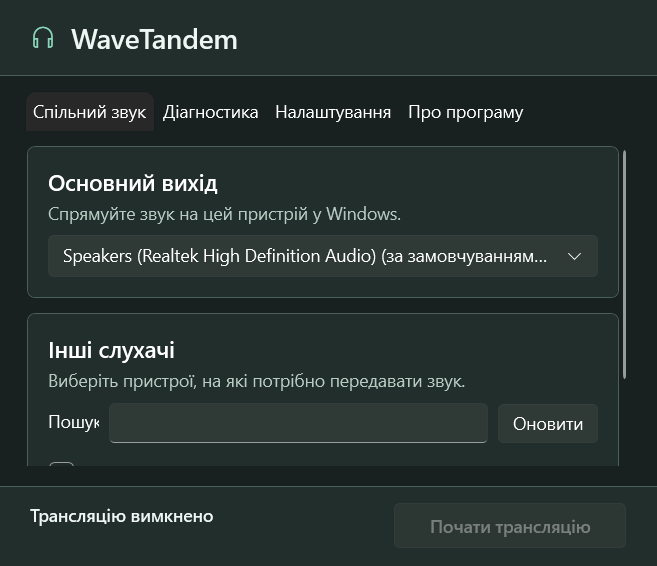
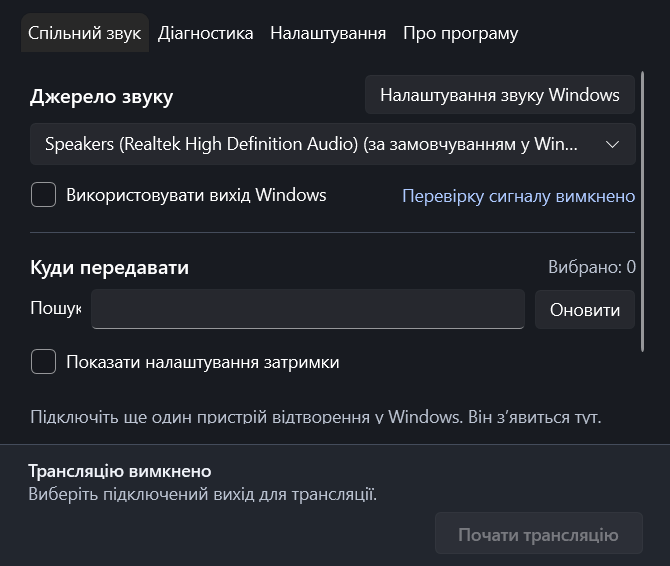
docs: explain listening workflows and refresh screenshots

diff --git a/README.md b/README.md
@@ -1,59 +1,61 @@
 # WaveTandem
 
-WaveTandem shares the sound already playing on a Windows output with other connected headphones, speakers, or audio interfaces. The main device keeps playing normally. Each additional listener gets independent volume, mute, and saved timing settings.
+**Share the sound from one Windows playback device with other headphones or speakers.**
 
-The app is a portable, driver-free Windows desktop program. Development began on 12 November 2026 under the working name SyncEar. The Git history begins on 26 November 2026.
+Use your laptop speakers and a headset together, or listen on a mix of USB, wired, and Bluetooth devices that Windows can play to at the same time. WaveTandem runs locally and uses the playback devices you already have.
 
-![WaveTandem on first launch with one Windows playback device connected](docs/images/sharing-light.png)
+![WaveTandem in the light theme with the source selector, signal status, listener list and sharing controls](docs/images/sharing-light.png)
 
-[Dark theme at a narrower window size](docs/images/sharing-dark-uk.png).
+[Dark theme](docs/images/sharing-dark-uk.png) · [Releases](https://github.com/SerDrozd/WaveTandem/releases) · [Troubleshooting](docs/troubleshooting.md) · [Build from source](#build-and-test)
 
-## Quick start
+## Start listening
 
-1. Connect at least two playback devices in Windows and play audio on one of them.
-2. Extract the entire Windows x64 archive and open `WaveTandem.exe`.
-3. Choose the device that is already playing as the main output.
-4. Select the other listeners and choose **Start sharing**.
-5. Open **Show timing controls** to adjust extra delay on an earlier listener. Use **Diagnostics** to check queue, drift and reconnect information.
+1. Connect two playback devices in **Windows → Settings → System → Sound**. Play something on one of them.
+2. Extract the entire x64 ZIP and open `WaveTandem.exe`. The portable ZIP includes the .NET desktop runtime.
+3. Under **Audio source**, select the device already playing. Enable **Follow Windows default** if you want WaveTandem to follow the Windows playback selection.
+4. Under **Listen on**, check the other devices and press **Start sharing**. You can also press **Ctrl+Enter** while the window has focus.
+5. Check the source signal and try **Test sound** on an enabled listener if you hear nothing there.
 
-Use the x64 ZIP and checksum from [Releases](https://github.com/SerDrozd/SyncEar/releases) when a version is published. Verify the archive with `Get-FileHash .\WaveTandem-win-x64.zip -Algorithm SHA256` and compare it with the adjacent `.sha256` file. The archive includes the .NET desktop runtime. Builds are unsigned.
+**Source** is where Windows already plays the sound. **Listener** is an additional device that receives a copy.
 
-## Features
+## Everyday controls
 
-- One main output and up to 16 additional endpoint profiles per session.
-- Per-listener volume, mute and 0–500 ms extra delay.
-- Recovery for a previously selected endpoint that returns with the same Windows ID.
-- Drift correction through adaptive resampling, with status and software delay estimates.
-- English, Russian and Ukrainian, with Windows, light and dark appearances.
-- Optional sharing from the notification area after closing the window.
+| What you want to do | Where to do it |
+| --- | --- |
+| Find why you hear nothing | Read the source signal status. If the source has signal, use **Test sound** on the connected, unmuted listener to check its playback path. |
+| Pause everyone else while your own sound continues | Use **Pause copies** in the window or tray menu. Resume keeps the listener volume, mute and delay settings. |
+| Swap your main headset as Windows switches devices | Enable **Follow Windows default** before starting. WaveTandem rebuilds the route when Windows changes its default and excludes the new source from the listeners. |
+| Set different levels for two people | Use the volume and mute controls on each checked listener. These change the copies sent by WaveTandem. |
+| Reduce an audible echo between listeners | Open the timing controls. Play a series of clicks and add delay to an additional output that you hear early. |
+| Reuse a setup for a film, desk or set of headphones | In **Saved setups**, save the source choice, listeners, volume, mute and delay while sharing is off. Load the setup, confirm the connected devices, then start sharing. |
+| Share enough information to get help | In **Diagnostics**, use **Copy support report** for stream states, queue metrics and error codes with device names and IDs omitted. |
 
-## How it works
+Selected devices reopen after reconnecting with the same Windows endpoint ID. If Windows assigns a replacement ID, select that endpoint. Choose **Light** or **Dark** in Settings. The interface is available in English, Russian and Ukrainian.
 
-WASAPI loopback reads the selected endpoint's shared-mode playback mix. A C++20 engine converts it to stereo float and publishes frames to bounded queues. Each output drains its own queue at the rate of its audio device. A feedback controller adjusts the resampling ratio to keep the queue near its target. The WPF app uses a versioned native C ABI to configure listeners and display diagnostics. Read the [architecture](docs/architecture.md), [audio pipeline](docs/audio-pipeline.md), and [synchronization design](docs/synchronization.md).
+## Compatibility and timing
 
-## Compatibility
-
-The target is x64 Windows 11, with the same WASAPI APIs available on Windows 10 22H2. USB, wired, Bluetooth Classic and Bluetooth LE Audio devices are usable when Windows exposes active playback endpoints and the PC can sustain their simultaneous playback. Compatibility depends on the adapter, drivers and devices. See the [hardware test matrix](docs/device-compatibility.md) for verification status.
-
-If your Windows Quick Settings includes **Shared Audio** and both headsets support it, Windows can share directly using Bluetooth LE Audio broadcast. [Microsoft Shared Audio documentation](https://support.microsoft.com/en-au/servicing/os/windows-11/2026/05/may-26-2026-kb5089573-os-builds-26200-8524-and-26100-8524-preview).
+- The target is **Windows 11 x64**. The same WASAPI APIs are available on Windows 10 22H2. See the [device matrix](docs/device-compatibility.md) for the verification status.
+- Windows must expose separate playback devices and be able to play to them simultaneously. If your PC already offers **Shared Audio** and two compatible Bluetooth LE Audio accessories, you can use Quick Settings to share directly. [Microsoft Shared Audio](https://techcommunity.microsoft.com/blog/windowsosplatform/share-the-moment-listen-together-with-shared-audio/4522401).
+- WaveTandem reads the shared mix on a selected output. Protected audio and playback that bypasses the shared mix may be absent. [WASAPI loopback](https://learn.microsoft.com/en-us/windows/win32/coreaudio/loopback-recording).
+- Drift correction keeps per-output queues stable. The reported delay estimates **software buffering**. Bluetooth transport and acoustic delay vary by device. The source’s direct Windows playback cannot be delayed by WaveTandem. [Timing and calibration](docs/latency.md).
 
 ## Build and test
 
-Use PowerShell 7, .NET 10 SDK, CMake 3.24 or later, Visual Studio 2022 C++ Build Tools and a Windows 10/11 SDK. For Visual Studio 2026, pass `-Generator 'Visual Studio 18 2026'` with a version of CMake that supports it.
+Use PowerShell 7, .NET 10 SDK, CMake 3.24 or later, the Visual Studio 2022 C++ Build Tools, and a Windows SDK. With Visual Studio 2026 and a CMake version that supports it, pass `-Generator 'Visual Studio 18 2026'`.
 
 ```powershell
 ./scripts/check.ps1
 ./scripts/build.ps1 -Package
 ```
 
-The Release build uses MSVC warnings and static analysis. The script runs the native DSP and endpoint tests and the xUnit settings tests before creating the ZIP in `out/dist`. See [testing](docs/testing.md) for benchmarks, visual checks, hardware verification and long-run measurements.
+The script builds the C++20 engine and WPF application, runs CTest and xUnit, and creates `out/dist/WaveTandem-win-x64.zip` with a SHA-256 sidecar. Archives are unsigned. Run `Get-FileHash .\WaveTandem-win-x64.zip -Algorithm SHA256` to compare the ZIP with its sidecar. See the [verification guide](docs/testing.md) for the UI smoke harness, routing, and hardware tests.
 
-## Settings, timing, and troubleshooting
+## How it works
 
-Preferences live in `%LOCALAPPDATA%\WaveTandem\settings.json`. Profiles use Windows endpoint IDs, so plugging a device into a different port or pairing it again may require selecting its replacement. The app can keep the selected source after the Windows default changes. Route the player to that source, or stop and choose the new default output.
+A WASAPI loopback worker reads the source. Each listener has a bounded queue, its own resampler and its own WASAPI render stream. A feedback controller adjusts each resampling ratio independently. The WPF app talks to the native engine through a versioned C ABI. [Architecture](docs/architecture.md) · [Audio pipeline](docs/audio-pipeline.md) · [Synchronization](docs/synchronization.md).
 
-Software delay is estimated from queued frames. Bluetooth transport and acoustic latency vary by device. Use the [calibration guide](docs/latency.md) to tune devices. If the main device is the earliest audible device, the app cannot delay its direct Windows playback. Protected content and streams that bypass the shared mix may be absent from loopback. See [troubleshooting](docs/troubleshooting.md).
+Audio stays in memory on the PC. Settings are saved under `%LOCALAPPDATA%\WaveTandem`. The application requires no account and sends no audio or telemetry over the network.
 
-## Privacy and project information
+[Contributing](CONTRIBUTING.md) · [Security](SECURITY.md) · [Roadmap](docs/roadmap.md) · [MIT license](LICENSE)
 
-Audio remains in memory on the PC. The app stores settings locally and uses no account, upload or telemetry. The most recent diagnostic events stay in memory during the run. See [security reporting](SECURITY.md), [contributing](CONTRIBUTING.md), the [roadmap](docs/roadmap.md), and the [MIT license](LICENSE).
+Development began on 12 November 2026 under the name SyncEar. The Git history begins on 26 November 2026.

diff --git a/docs/architecture.md b/docs/architecture.md
@@ -15,10 +15,10 @@ flowchart LR
 ```
 
 - **Native** owns COM, capture and render threads, DSP, queue counters, endpoint IDs and lifecycle states. Each audio worker initializes COM and enrolls in MMCSS where available. An event wakes workers for audio. Timeout checks detect stale streams and allow idle loopback.
-- **Interop** verifies ABI version 1 before starting a session. A `SafeHandle` owns the opaque session and joins all workers on release. HRESULT values transfer errors across the boundary. The enumeration callback copies Unicode strings before returning.
+- **Interop** verifies ABI version 2 before starting a session. A `SafeHandle` owns the opaque session and joins all workers on release. HRESULT values transfer errors across the boundary. The enumeration callback copies Unicode strings before returning.
 - **Core** defines endpoint and status records and pure settings normalization. Settings use versioned JSON with a bounded read. Save flushes a uniquely named temporary file in the same directory and replaces the old file. Invalid or future-schema files are preserved.
 - **App** owns the observable device list, language, themes, onboarding and tray. Native operations are serialized off the dispatcher. A two-second enumeration poll updates active and default endpoints. Audio recovery is independent of the UI poll.
 
 A session is pinned to an explicit source ID. Its output slots are append-only until stop. Once a slot is published, the capture thread can access it until the session joins. Disabling a listener retains the slot for reuse. The source receives a stop signal and joins before queues are destroyed. Capture never overwrites unread frames. Render owns the read cursor and can discard stale material after an overrun or discontinuity.
 
-The Windows default can change while a session is active. The app reports the mismatch and keeps the pinned endpoint. It will retry the original source and output IDs after device invalidation or service disruption. A replacement ID requires explicit selection to avoid sending audio to an unintended endpoint.
+With a fixed source, the app reports a mismatch with the Windows default and retries the original endpoint after invalidation. With **Follow Windows default**, the app stops the old session and starts a new one after detecting a default change. It excludes the new source from its output routes, retains the listener selection and pause state, and waits if Windows reports no default. A replacement listener ID requires explicit selection.

diff --git a/docs/testing.md b/docs/testing.md
@@ -16,7 +16,7 @@ On 26 November 2026, the Windows x64 Release build, two native CTest suites, ten
 1. Connect two output endpoints. Play a click track on the first endpoint shown by enumeration. Run `out/native/Release/endpoint_smoke.exe --routing`. The test checks capture timestamps, an active secondary stream and rejection of a feedback route. It opens up to three additional outputs at 5% volume.
 2. Repeat with at least three endpoints, including different formats or sample rates. Use the GUI to confirm that each copy is audible, mute and change one gain without changing the others, and compare timing with the [calibration guide](latency.md).
 3. Disconnect one output and watch the others continue. Reconnect the original endpoint and confirm the reconnect counter changes once. Test a re-paired endpoint with a different ID and confirm that selecting it requires a user action.
-4. Change the Windows default and verify the selected source remains pinned. Suspend and resume Windows. In a disposable test environment, restart the Windows Audio service. Check recovery and that closing the app releases all clients.
+4. Change the Windows default with a fixed source and verify the selected source remains pinned. Repeat with **Follow Windows default**, first switching to a previously selected listener. Check that the new source is excluded from the regenerated listener route. Pause copies, switch again, and verify that pause persists. Suspend and resume Windows. In a disposable environment, restart the Windows Audio service.
 5. Stop and start repeatedly, including during device enumeration and recovery. Check close-to-tray, tray Stop and tray Exit.
 
 ## Stability
@@ -26,6 +26,8 @@ Run each proposed hardware pairing for at least an hour. Record Windows build, d
 ## UI and release
 
 For a Windows desktop with a playback endpoint, use the visual smoke harness to render the live application view at its default size and at a narrow size and to check localized resources.
+
+The harness also runs a simulated routing scenario to cover source signal state, per-listener test signals, pause, default-output changes, report redaction, and saving and reopening a listening setup.
 
 ```powershell
 $native = (Resolve-Path out/native/Release/WaveTandemAudio.dll).Path

diff --git a/docs/troubleshooting.md b/docs/troubleshooting.md
@@ -2,7 +2,7 @@
 
 ## No sound through the listeners
 
-Play a known local file. Confirm it reaches the main output in Windows and make sure the listener is checked, connected, and unmuted. If Windows uses another default output, use Windows Sound settings to route the player to the selected main output. Verify Windows can play directly to each listener.
+Play a known local file and check the signal next to the source selector. If WaveTandem detects silence, make sure the player uses that device in Windows. If it detects audio, make sure the listener is checked, connected, and audible. While sharing, use **Test sound** on that listener. If you hear the test, the output path is open. If the test is inaudible, check the device volume and whether Windows can play directly to it.
 
 For Bluetooth, reconnect the headset and check that its media playback endpoint is active. Microphone use may switch the headset profile. If Windows creates a new endpoint when pairing again, select it in WaveTandem.
 
@@ -14,4 +14,4 @@ Open **Diagnostics** and check recent reconnects, gaps, overflow and queue depth
 
 Extract the complete x64 ZIP before opening the app. The native DLL must be next to the executable. If Windows audio is unavailable across apps, check the Windows Audio service with the system administrator. For settings errors, close WaveTandem and copy the existing settings file before moving it aside to start with defaults.
 
-When opening an issue, include the app and Windows versions, endpoint types, repro steps and any HRESULT displayed under diagnostics. Remove personal device names before sharing logs.
+Use **Copy support report** in Diagnostics to copy the app version, Windows version, stream states, error codes and queue counters. The copied report omits device names and identifiers. Add connection types and reproduction steps when opening an issue.

diff --git a/docs/audio-pipeline.md b/docs/audio-pipeline.md
@@ -6,6 +6,8 @@
 4. Resample each queue to the sink sample rate using a 32-tap windowed-sinc filter with fractional-phase coefficients. Apply a separate gain or mute. Each WASAPI render client writes its own native format.
 5. Read render padding and clock position where available. Keep underrun, overflow and reconnect counters. A shortfall is filled with silence and the queue primes again.
 
+The source indicator reports recent audio above the engine's silence threshold. It reads the same frames already used for sharing. **Pause copies** sets the render gain to zero while the queues continue advancing. A listener's **Test sound** replaces its copy with two brief, low-level pulses while the other render streams continue normally. A test requires a connected, unmuted listener and active sharing.
+
 The FIFO has 524,288 stereo frames per registered listener. Queues are provisioned on the control path and never grow. All clients use the system's normal shared-mode period. COM setup, kernel coefficient generation on format changes and endpoint recovery are outside normal packet processing. There are no blocking synchronization primitives or allocations in steady-state packet transfer.
 
 The loopback stream includes the shared mix on one selected device. Protected sources can be suppressed by Windows. Read [WASAPI loopback recording](https://learn.microsoft.com/en-us/windows/win32/coreaudio/loopback-recording) and [event-driven buffering](https://learn.microsoft.com/en-us/windows/win32/api/audioclient/nf-audioclient-iaudioclient-initialize) for API behavior.

diff --git a/docs/decisions/0002-application-name.md b/docs/decisions/0002-application-name.md
@@ -2,6 +2,6 @@
 
 Accepted.
 
-SyncEar was the original working name. A separate [SyncEar audio sharing project](https://github.com/wa4lo7k/SyncEar) already uses it. WaveTandem is the application, source, binary and archive name. The original repository URL identifies the existing workspace on GitHub.
+SyncEar was the original working name. A separate [SyncEar audio sharing project](https://github.com/wa4lo7k/SyncEar) already uses it. WaveTandem is the application, source, binary and archive name. The repository is now [SerDrozd/WaveTandem](https://github.com/SerDrozd/WaveTandem).
 
 At selection time, exact-name searches found no WaveTandem result on GitHub, and the NuGet and npm package endpoints returned no matching package. Formal trademark clearance remains open.

diff --git a/CHANGELOG.md b/CHANGELOG.md
@@ -1,5 +1,12 @@
 # Changelog
 
+## 0.2.0 development
+
+- Reworked the sharing screen with a source signal indicator, direct access to Windows sound settings, and two neutral light and dark themes.
+- Added default-output following with feedback prevention, pause for listener copies, and a brief test sound per connected listener.
+- Added saved listening setups, Ctrl+Enter in the app window, and a support report without device names or identifiers.
+- Rewrote the README around common listening and troubleshooting tasks.
+
 ## 0.1.0 development
 
 - Added a Windows WPF desktop application in English, Russian and Ukrainian with device selection, individual gain and mute, per-device delay presets, diagnostics and notification-area controls.
